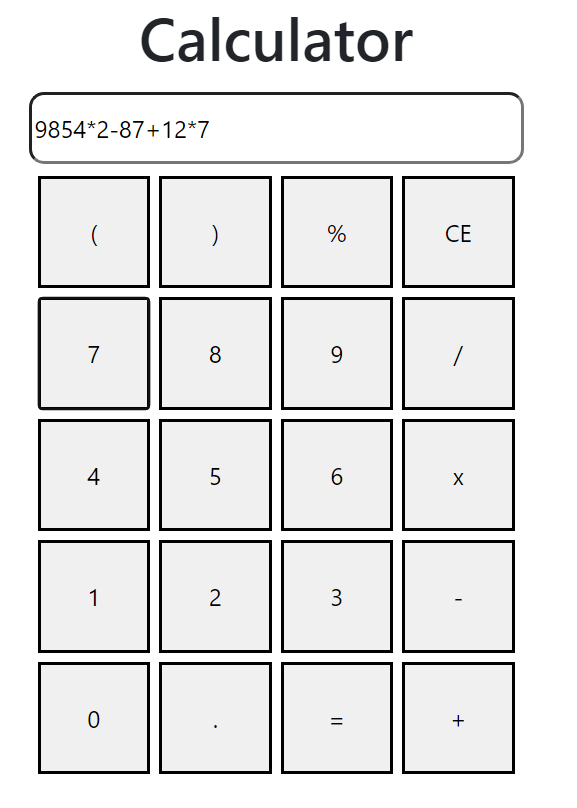
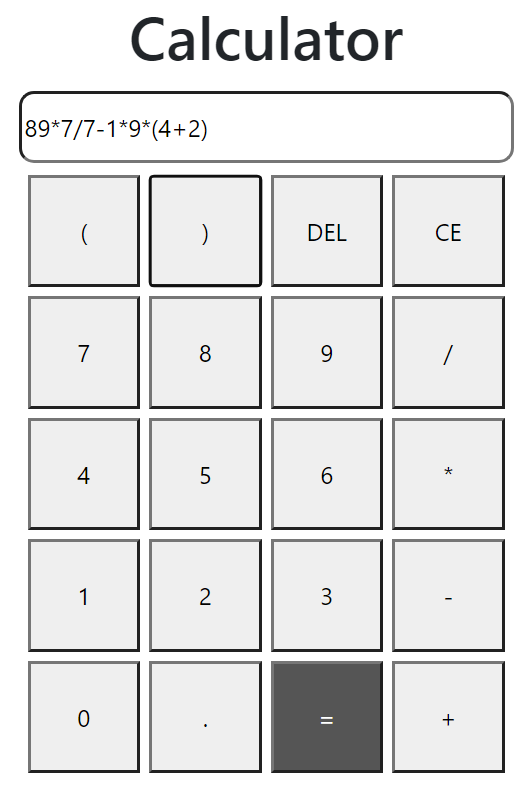
change eval to Function

diff --git a/src/components/calculator.js b/src/components/calculator.js
@@ -37,7 +37,7 @@ import React,  { useState } from "react"
     
     
     try{
-      setInput(eval(input).toString())
+      setInput(Function("return "+ input)().toString())
     }
     catch{
       setInput('ERROR')
@@ -159,7 +159,7 @@ import React,  { useState } from "react"
         className="key"
         onClick={() => setInput(input+'*')}
         >
-          x
+          *
         </button>
 
         <button 
@@ -209,8 +209,10 @@ import React,  { useState } from "react"
         onClick={() => {
           
           try{
-          setInput(eval(input).toString())
+          setInput(Function("return "+ input)().toString())
         }
+
+
         catch{
           setInput('ERROR')
 
